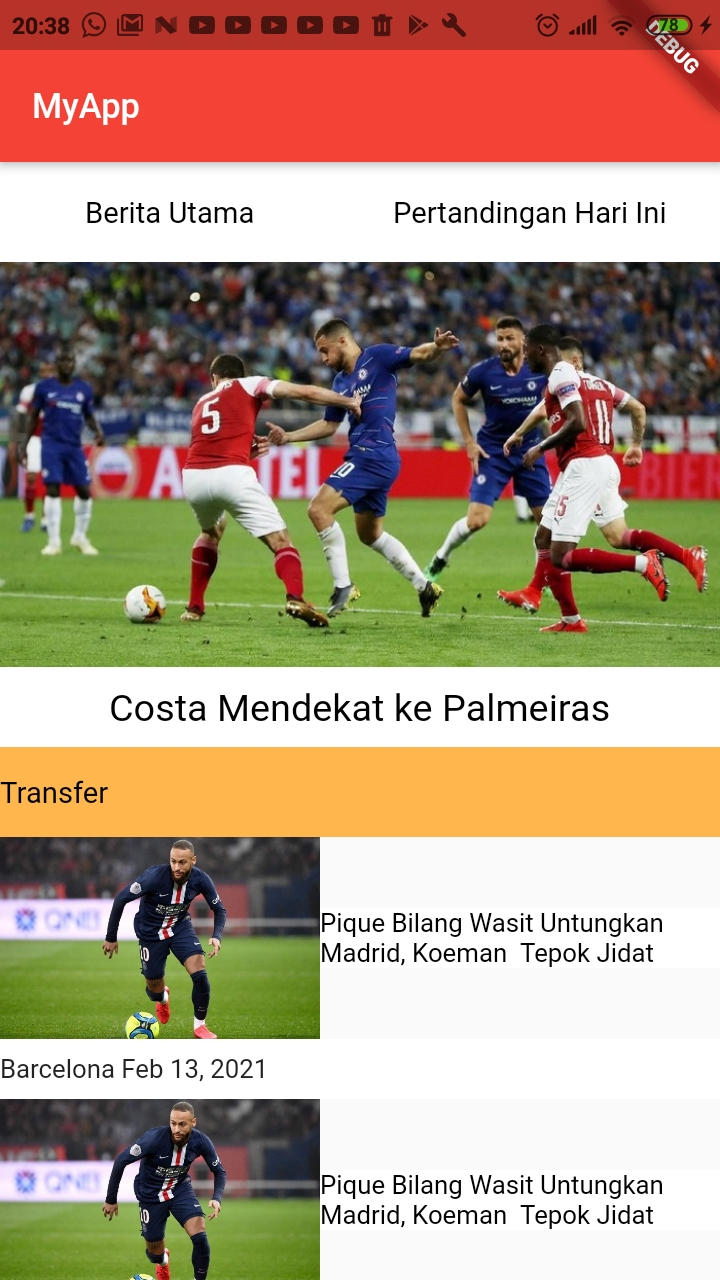
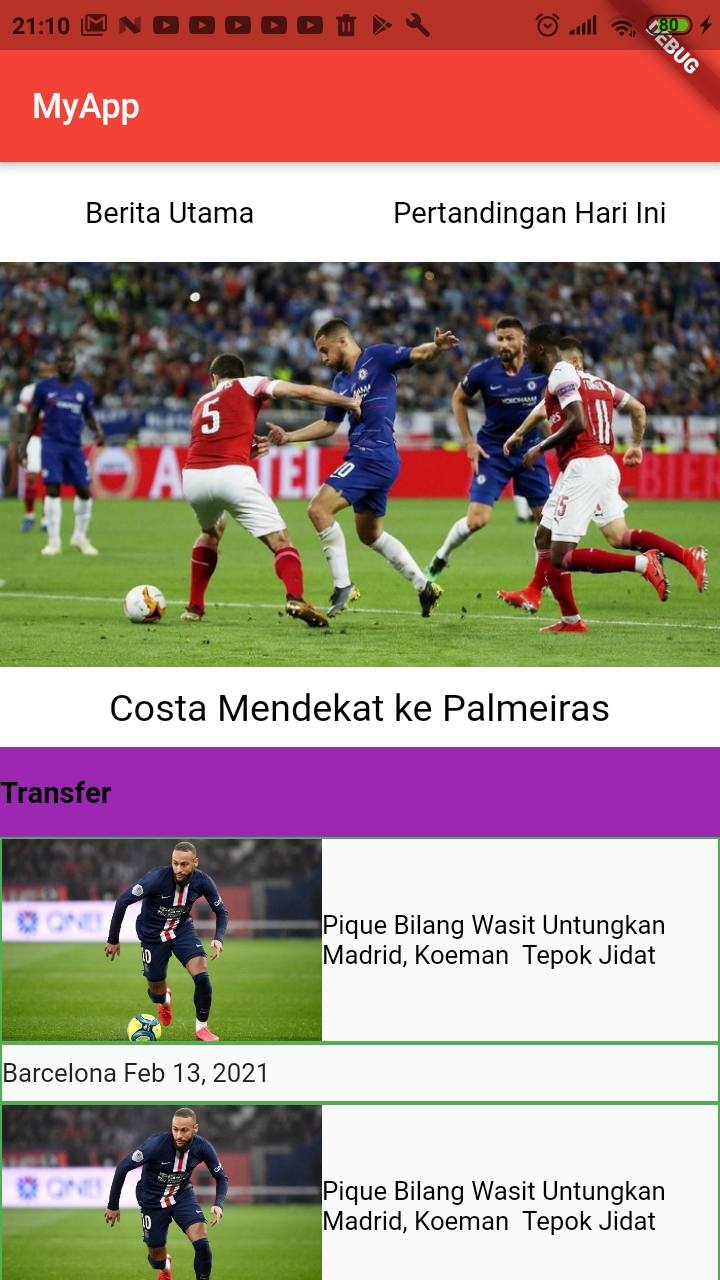
Penambahan Border

diff --git a/lib/main.dart b/lib/main.dart
@@ -53,16 +53,19 @@ class MyApp extends StatelessWidget {
              alignment: Alignment.center,
            ),
            Container(
-             color: Colors.orange[300],
+             color: Colors.purple,
              child: Text(
                'Transfer',
-               style: TextStyle(fontSize:17, color: Colors.black ),
+               style: TextStyle(fontSize:17, color: Colors.black, fontWeight: FontWeight.bold ),
              ),
              height: 45.0,
              width: 400.0,
              alignment: Alignment.centerLeft,
            ),
            Container(
+             decoration: BoxDecoration(
+                   border: Border.all(color: Colors.green)
+                   ),
              child: Row(children: [
                Container(
                  child: Image(image: NetworkImage('https://cdn.medcom.id/dynamic/content/2020/07/20/1166802/7QLnNcGsE0.jpg?w=700'),
@@ -71,19 +74,22 @@ class MyApp extends StatelessWidget {
                  //height: 80.0,
                ),
                Container(
-                 color : Colors.white,
+                 
                  child : Text(
                    'Pique Bilang Wasit Untungkan Madrid, Koeman  Tepok Jidat',
                    style: TextStyle(fontSize: 15, color: Colors.black),
                  ),
                  alignment: Alignment.center,
-                 width: 200.0,
+                 width: 178.0,
                ),
              ],
              ),
            ),
            Container(
-             color: Colors.white,
+             decoration: BoxDecoration(
+                   border: Border.all(color: Colors.green)
+                   ),
+             
              child: Text(
                'Barcelona Feb 13, 2021',
                style: TextStyle(fontSize: 15),
@@ -92,6 +98,9 @@ class MyApp extends StatelessWidget {
              alignment: Alignment.centerLeft,
            ),
            Container(
+             decoration: BoxDecoration(
+                   border: Border.all(color: Colors.green)
+                   ),
              child: Row(children: [
                Container(
                  child: Image(image: NetworkImage('https://cdn.medcom.id/dynamic/content/2020/07/20/1166802/7QLnNcGsE0.jpg?w=700'),
@@ -100,22 +109,20 @@ class MyApp extends StatelessWidget {
                  //height: 80.0,
                ),
                Container(
-                //  decoration: BoxDecoration(
-                //    border: Border.all(color: Colors.green)
-                //    ),
-                   color : Colors.white,
                  child : Text(
                    'Pique Bilang Wasit Untungkan Madrid, Koeman  Tepok Jidat',
                    style: TextStyle(fontSize: 15, color: Colors.black),
                  ),
                  alignment: Alignment.center,
-                 width: 200.0,
+                 width: 178.0,
                ),
              ],
              ),
            ),
            Container(
-             color: Colors.white,
+              decoration: BoxDecoration(
+                   border: Border.all(color: Colors.green)
+                   ),
              child: Text(
                'Barcelona Feb 13, 2021',
                style: TextStyle(fontSize: 15),
@@ -124,6 +131,9 @@ class MyApp extends StatelessWidget {
              alignment: Alignment.centerLeft,
            ),
            Container(
+             decoration: BoxDecoration(
+                   border: Border.all(color: Colors.green)
+                   ),
              child: Row(children: [
                Container(
                  child: Image(image: NetworkImage('https://cdn.medcom.id/dynamic/content/2020/07/20/1166802/7QLnNcGsE0.jpg?w=700'),
@@ -132,22 +142,22 @@ class MyApp extends StatelessWidget {
                  //height: 80.0,
                ),
                Container(
-                //  decoration: BoxDecoration(
-                //    border: Border.all(color: Colors.green)
-                //    ),
-                   color : Colors.white,
+                   
                  child : Text(
                    'Pique Bilang Wasit Untungkan Madrid, Koeman  Tepok Jidat',
                    style: TextStyle(fontSize: 15, color: Colors.black),
                  ),
                  alignment: Alignment.center,
-                 width: 200.0,
+                 width: 178.0,
                ),
              ],
              ),
            ),
              Container(
-             color: Colors.white,
+               decoration: BoxDecoration(
+                   border: Border.all(color: Colors.green)
+                   ),
+             
              child: Text(
                'Barcelona Feb 13, 2021',
                style: TextStyle(fontSize: 15),
